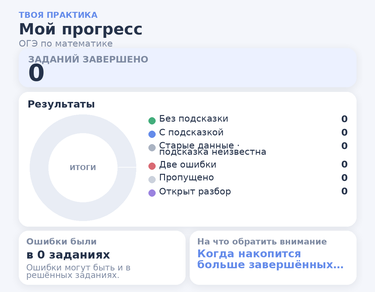
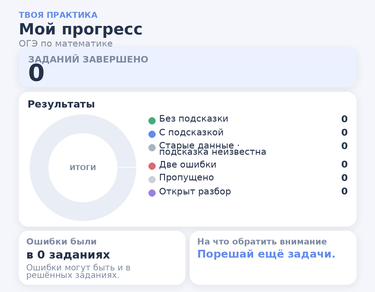
fix: avoid truncating empty progress tip

Changed region(s): [[0.528, 0.8322, 0.9093, 0.9247]]

diff --git a/app/bot/progress_image.py b/app/bot/progress_image.py
@@ -286,7 +286,7 @@ def draw_progress_bar(
 def _recommendation(insights: dict[str, Any]) -> str:
     total = insights["total"]
     if int(total["completed"]) < 5:
-        return "Когда накопится больше завершённых заданий, здесь появится рекомендация."
+        return "Порешай ещё задачи."
     values = insights["numbers"]
     count, number = max(
         (
